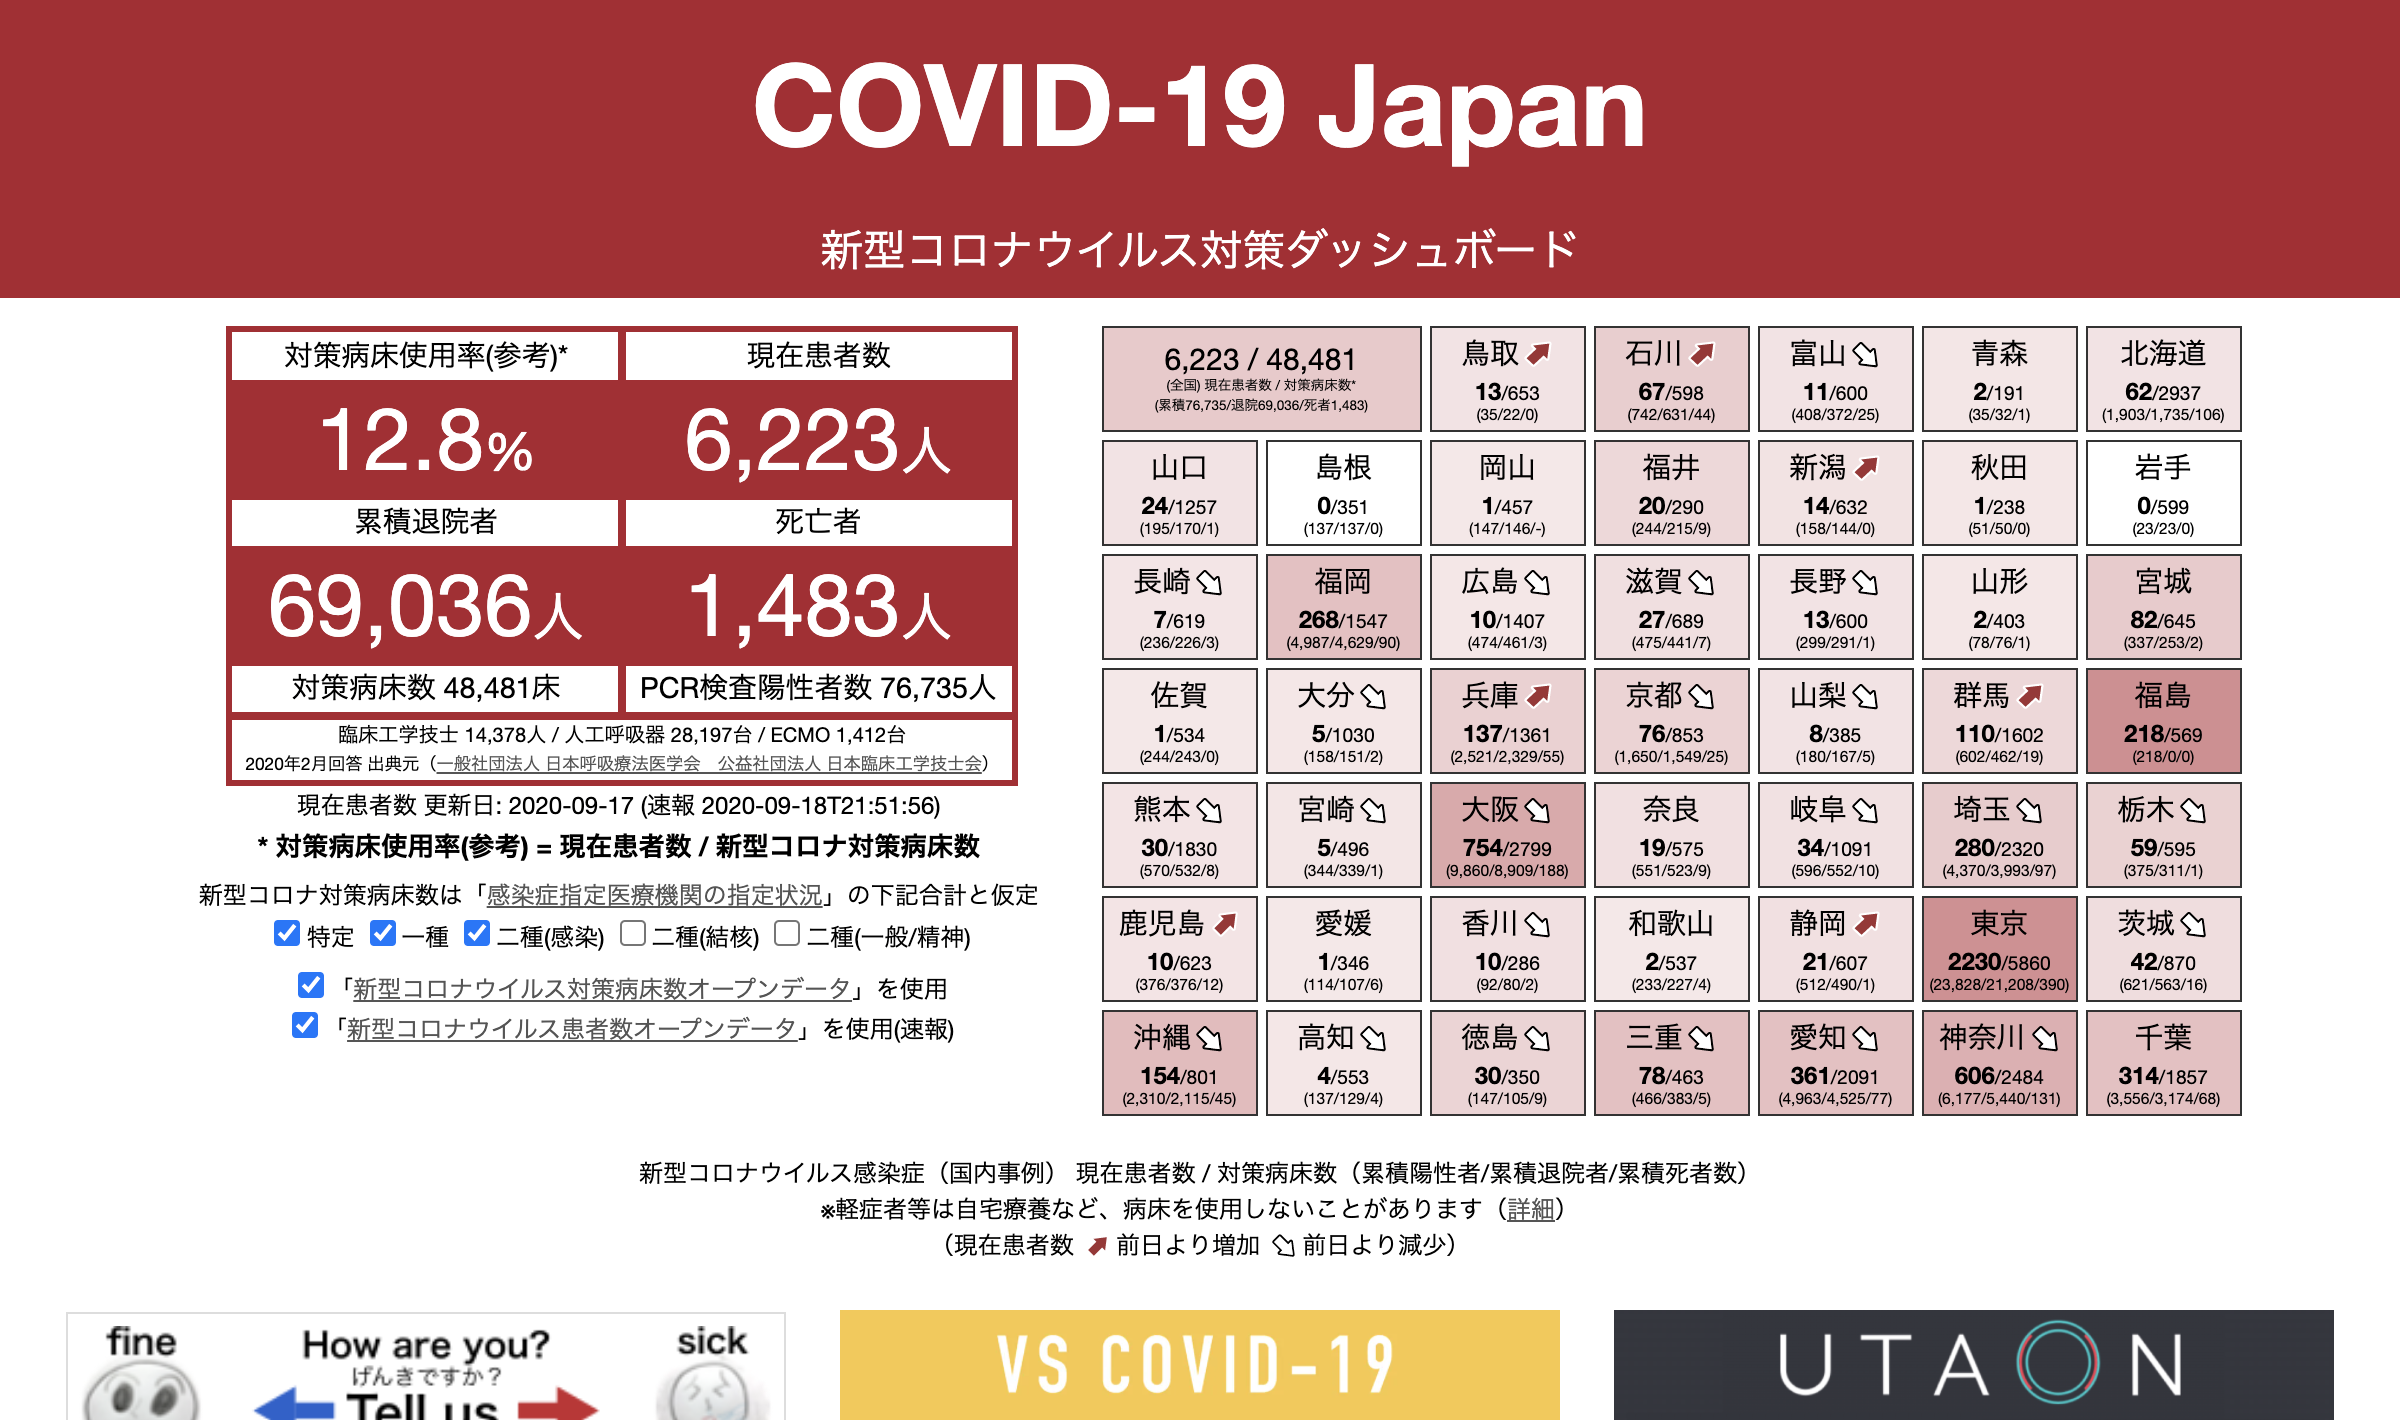
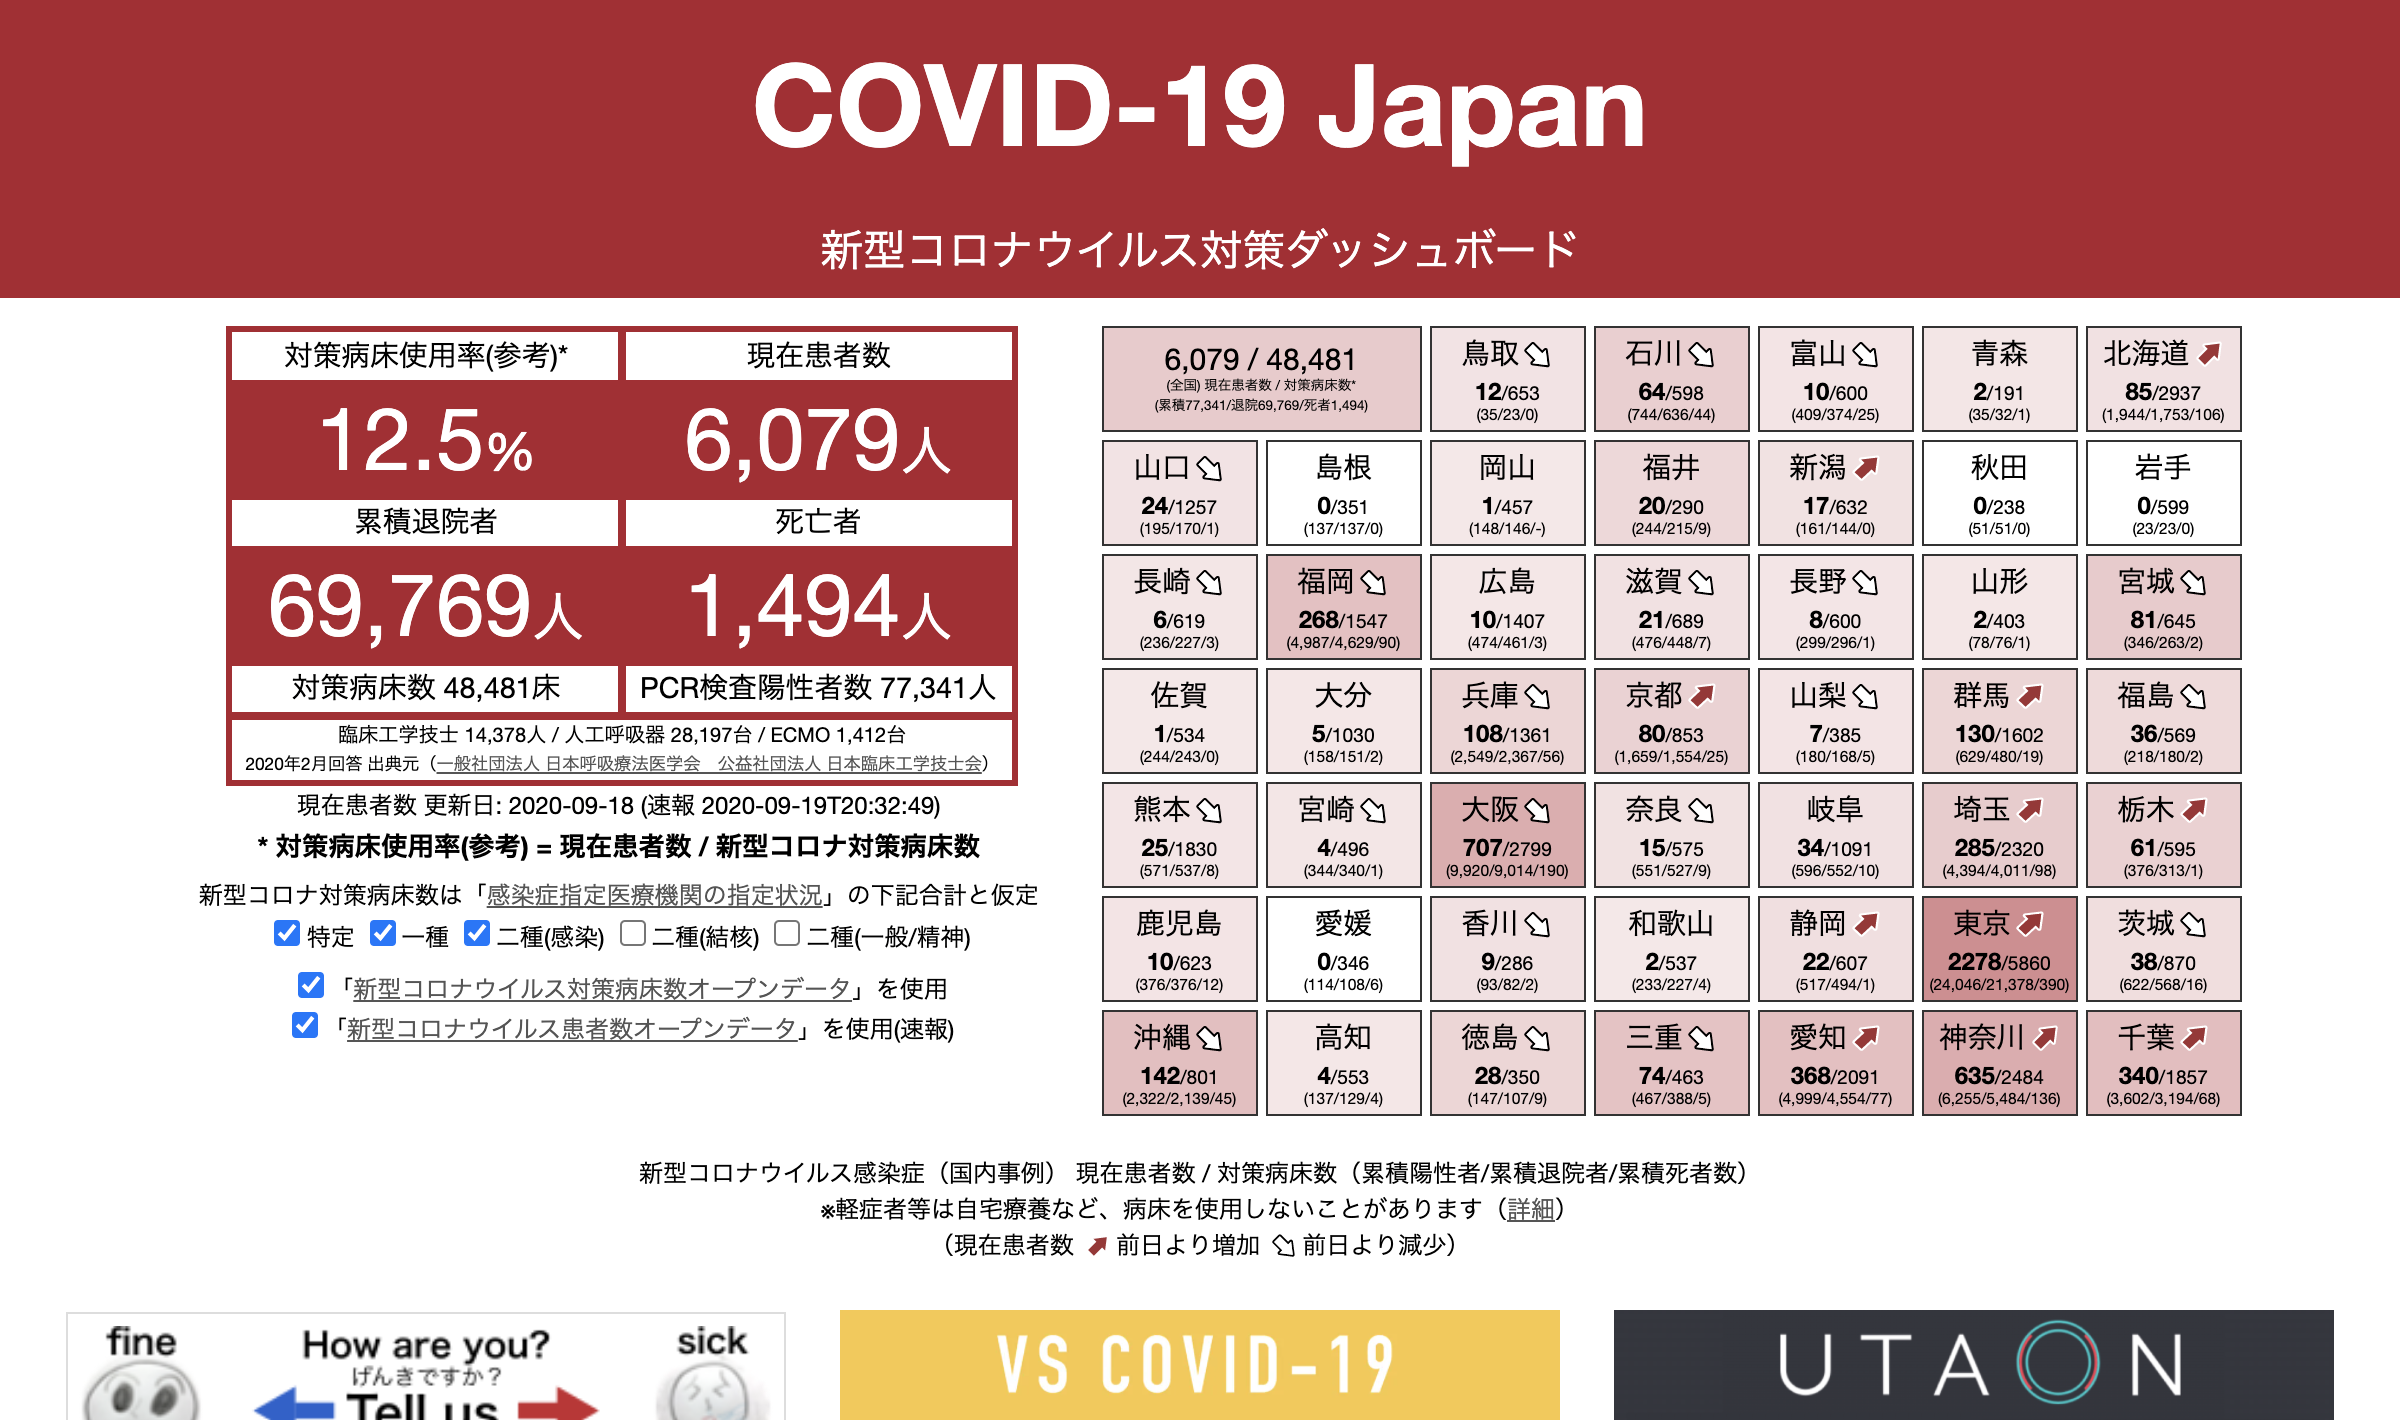
データ更新

diff --git a/index.html b/index.html
@@ -19,8 +19,8 @@ gtag('config', 'UA-162141832-1')
 <link rel="apple-touch-icon" href="covid19japan-leargeicon.png"/>
 <meta name="msapplication-square310x310logo" content="covid19japan-leargeicon.png"/>
 <meta name="twitter:card" content="summary_large_image"/>
-<meta property="og:image"  content="https://www.stopcovid19.jp/ogp/covid19japan_ogp_20200919003330.png"/>
-<meta name="twitter:image" content="https://www.stopcovid19.jp/ogp/covid19japan_ogp_20200919003330.png"/>
+<meta property="og:image"  content="https://www.stopcovid19.jp/ogp/covid19japan_ogp_20200919222715.png"/>
+<meta name="twitter:image" content="https://www.stopcovid19.jp/ogp/covid19japan_ogp_20200919222715.png"/>
 
 <meta name="viewport" content="width=device-width, initial-scale=1.0"/>
 <meta name="format-detection" content="telephone=no"/>
